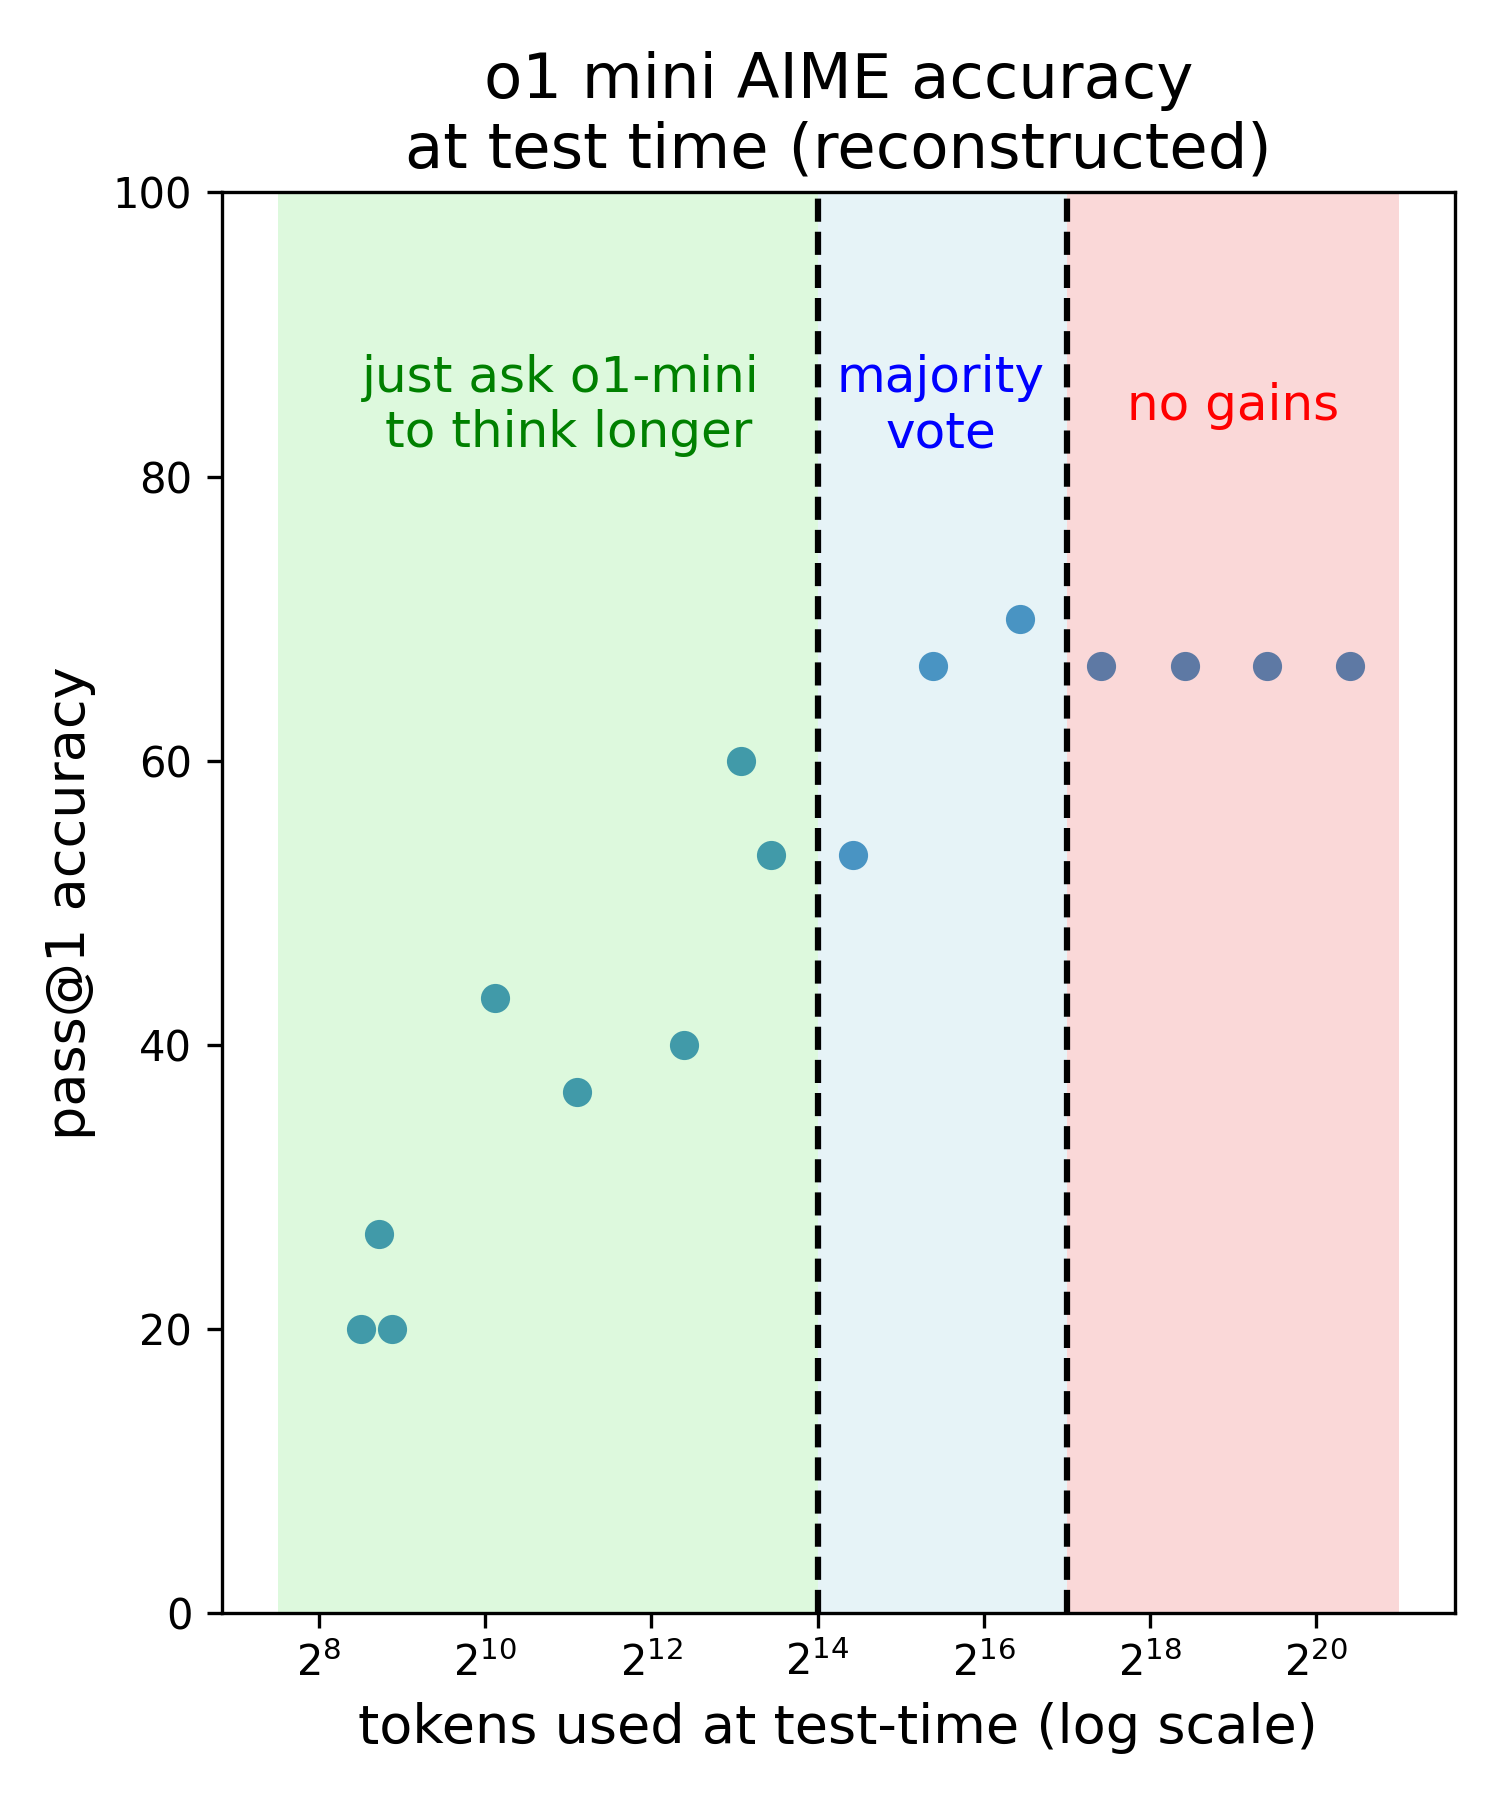
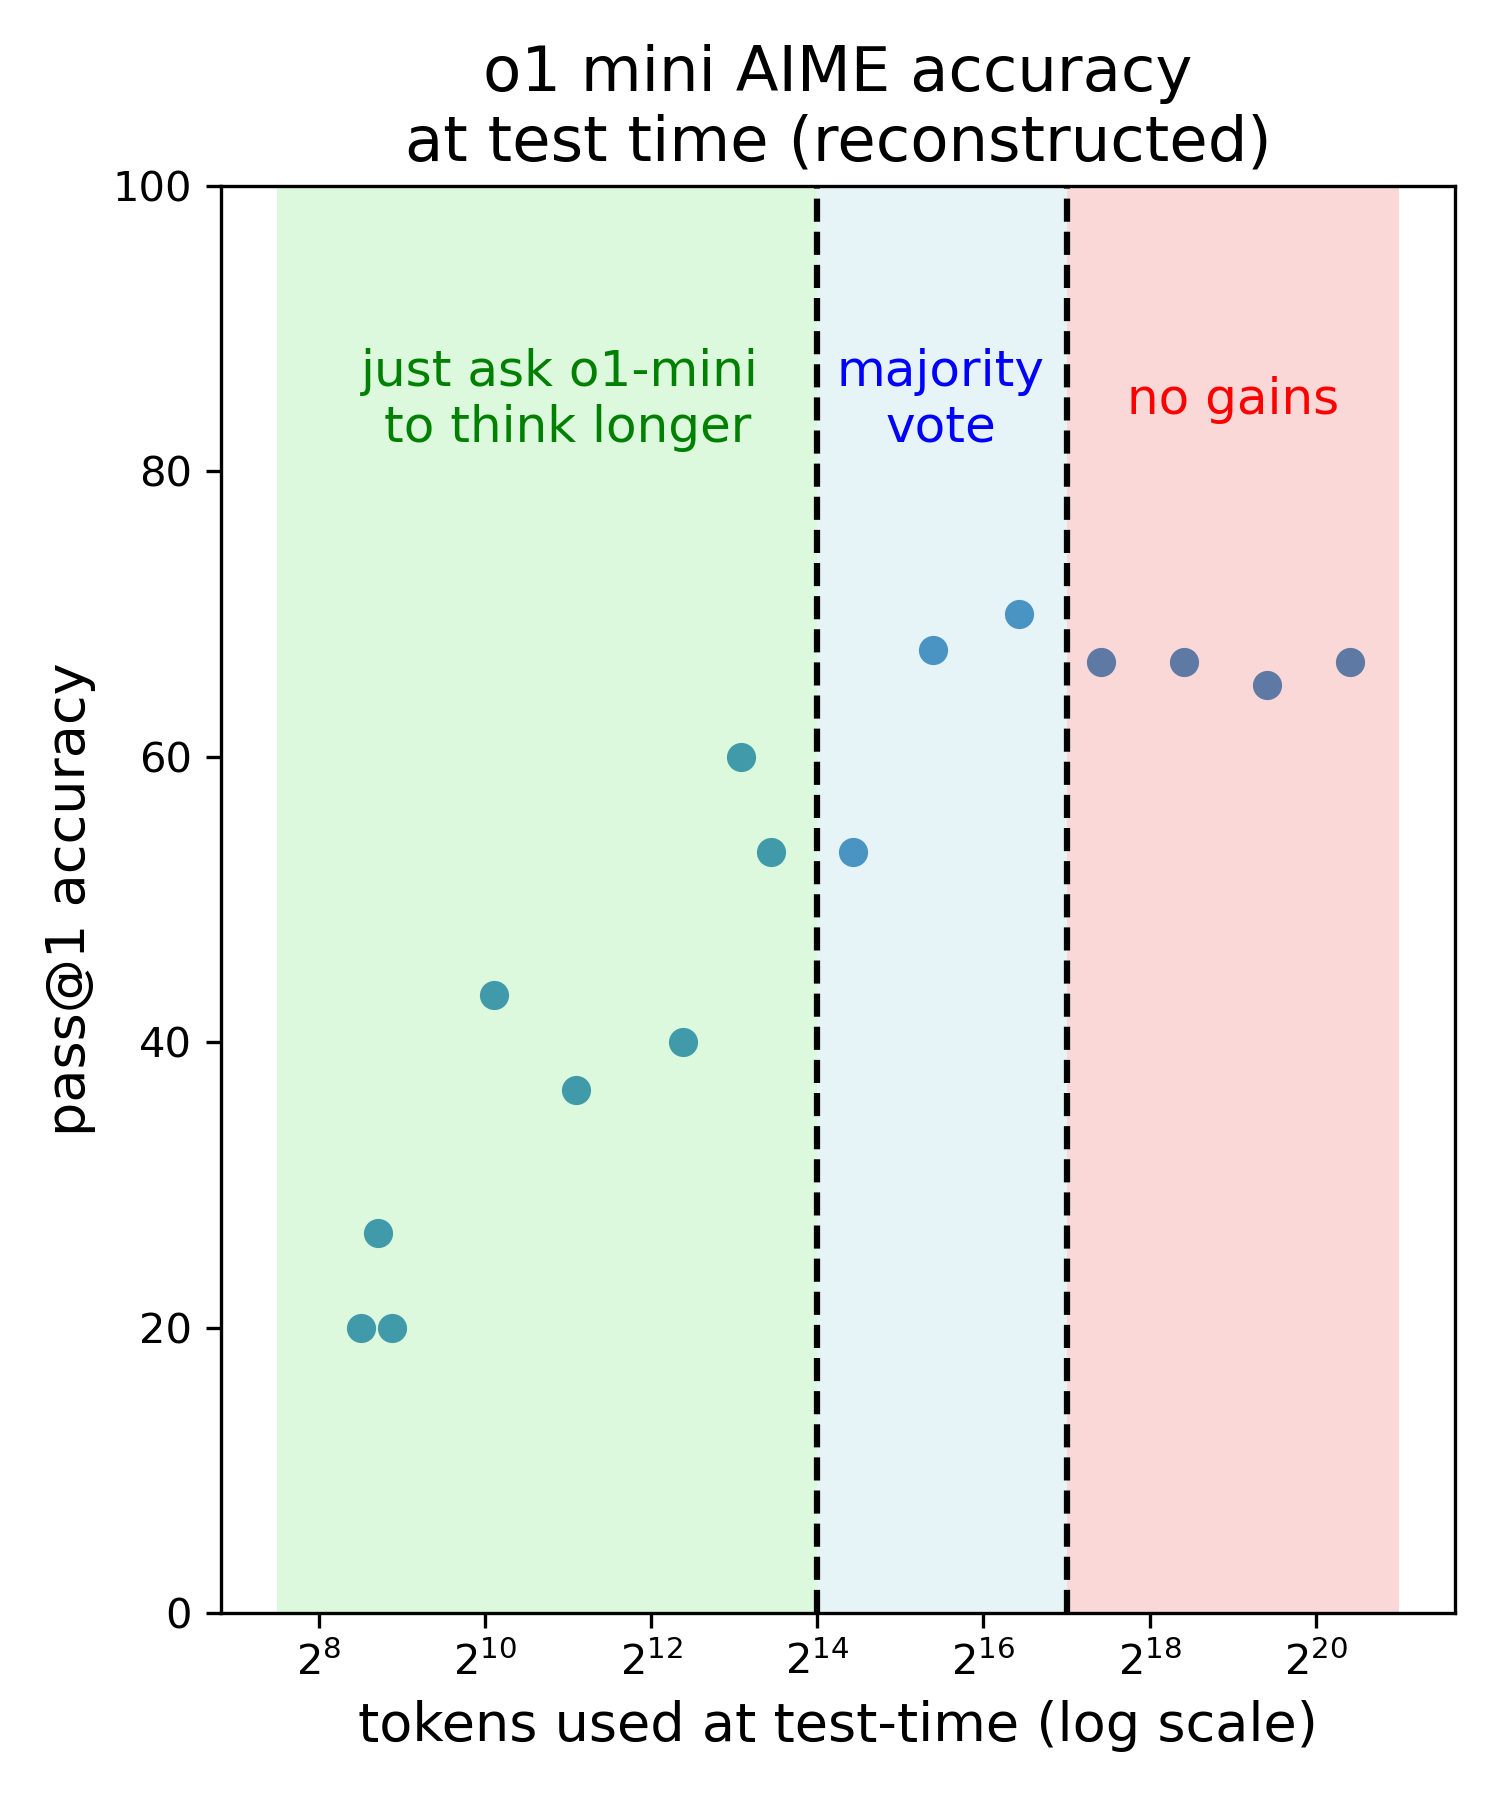
add determinism

diff --git a/o1.py b/o1.py
@@ -164,7 +164,7 @@ def generate_single_response(example: dict, token_limit: int, cache: dict, idx: 
     return answer, response['tokens']
 
 
-def process_single_example(example: dict, token_limit: int, cache: dict, N: int) -> tuple[bool, int]:
+def process_single_example(example: dict, token_limit: int, cache: dict, N: int) -> tuple[float, int]:
     """
     Process a single example by running the model N times and then taking the majority vote.
 
@@ -199,9 +199,18 @@ def process_single_example(example: dict, token_limit: int, cache: dict, N: int)
                   f"Obtained answers: {sorted(answers)}.")
 
     # Compute majority vote
-    majority_answer = statistics.mode(answers)
-    is_correct = majority_answer == int(example['answer'])
-    return is_correct, total_tokens
+    majority_answers = statistics.multimode(answers)
+
+    score = 0
+
+    if int(example['answer']) in majority_answers:
+        # If the majority answer is in the correct answer, we consider it correct.
+        # If there are multiple majority answers, we give partial credit to preserve
+        # determinism.
+        score = 1 / len(majority_answers)
+        majority_answer = None
+
+    return score, total_tokens
 
 
 def run_experiments(dataset: list[dict], cache: dict[str, typing.Any], token_limit: int, N: int) -> tuple[float, float]:
@@ -217,7 +226,7 @@ def run_experiments(dataset: list[dict], cache: dict[str, typing.Any], token_lim
     Returns:
         tuple[float, float]: A tuple containing the accuracy and average tokens used.
     """
-    correct_count = 0
+    total_score = 0
     actual_tokens_used = []
 
     with concurrent.futures.ThreadPoolExecutor(max_workers=30) as executor:
@@ -225,14 +234,14 @@ def run_experiments(dataset: list[dict], cache: dict[str, typing.Any], token_lim
         futures = [executor.submit(process_single_example, example, token_limit, cache, N) for example in dataset]
 
         for future in concurrent.futures.as_completed(futures):
-            is_correct, tokens = future.result()
-            if is_correct:
-                correct_count += 1
+            score, tokens = future.result()
+            if score > 0:
+                total_score += score
             actual_tokens_used.append(tokens)
         
         save_cache(cache, RESPONSE_CACHE_FILENAME)
     
-    accuracy = correct_count / len(dataset)
+    accuracy = total_score / len(dataset)
     avg_tokens_used = np.mean(actual_tokens_used)
     logging.debug(f"Requested token limit: {token_limit}. Accuracy: {accuracy}. Average tokens used: {avg_tokens_used}.")
     return accuracy, avg_tokens_used

diff --git a/helpers/plot_helpers.py b/helpers/plot_helpers.py
@@ -55,7 +55,7 @@ def plot_majority_vote_graph(results: list[dict[str, typing.Any]], shade_regions
         token_limit_vs_actual_plot_name = 'token_limit_vs_actual.png'
         plt.savefig(f"{GRAPH_FOLDER}/{token_limit_vs_actual_plot_name}")
 
-        with open(f'{HELPER_FOLDER}/results_log.json', 'w') as f:
+        with open(f'{HELPER_FOLDER}/results_log_majority_vote.json', 'w') as f:
             json.dump(results, f, indent=2)
 
         print(f"plots saved to {token_limit_vs_actual_plot_name}")
@@ -79,8 +79,8 @@ def plot_just_ask_nicely_graph(results: list[dict[str, typing.Any]], run_full_ra
         plt_name = f"{GRAPH_FOLDER}/full_just_ask_nicely.png"
     else:
         plt_name = f"{GRAPH_FOLDER}/just_ask_nicely_tokens.png"
-        
-        with open(f'{HELPER_FOLDER}/results_log.json', 'w') as f:
+
+        with open(f'{HELPER_FOLDER}/results_log_just_ask_nicely.json', 'w') as f:
             json.dump(results, f, indent=2)
     
     plt.savefig(plt_name)

diff --git a/README.md b/README.md
@@ -5,7 +5,7 @@
 Two weeks ago, OpenAI released the o1 family of models along with a graph showing scaling laws for inference time compute. Using only the public o1-mini API, I tried to reconstruct the graph as closely as possible. The original is on the left, my attempt is on the right.
 
 <p align="center">
-  <img src="graphs/g1_original.jpg" alt="Scaling Laws Graph" height="300px" style="height: 300px; width: auto;">
+  <img src="graphs/o1_original.jpg" alt="Scaling Laws Graph" height="300px" style="height: 300px; width: auto;">
   <img src="graphs/accuracy_vs_tokens_no_shade_regions.png" alt="Reconstructed Graph" height="300px" style="height: 300px; width: auto;">
 </p>
 
